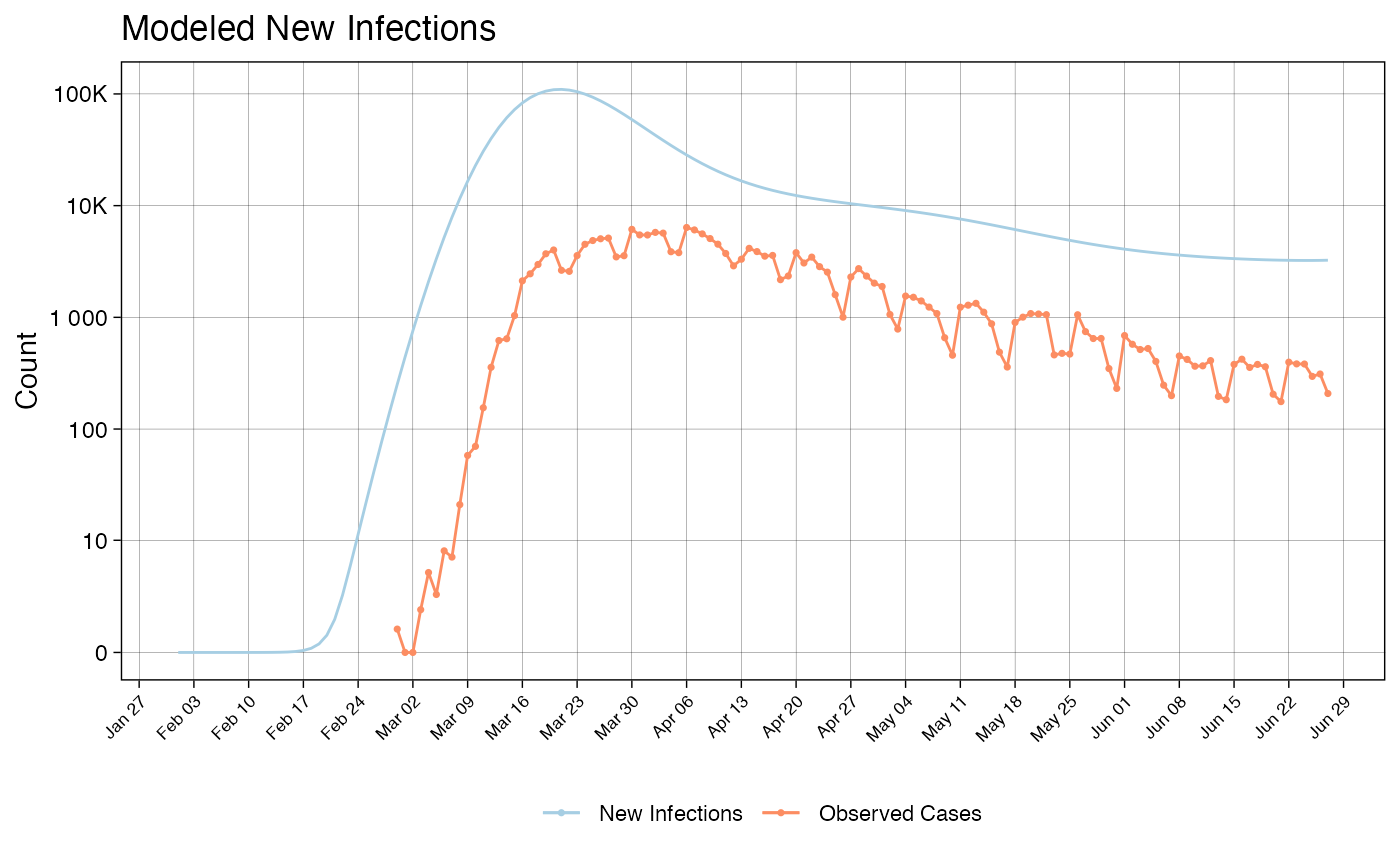
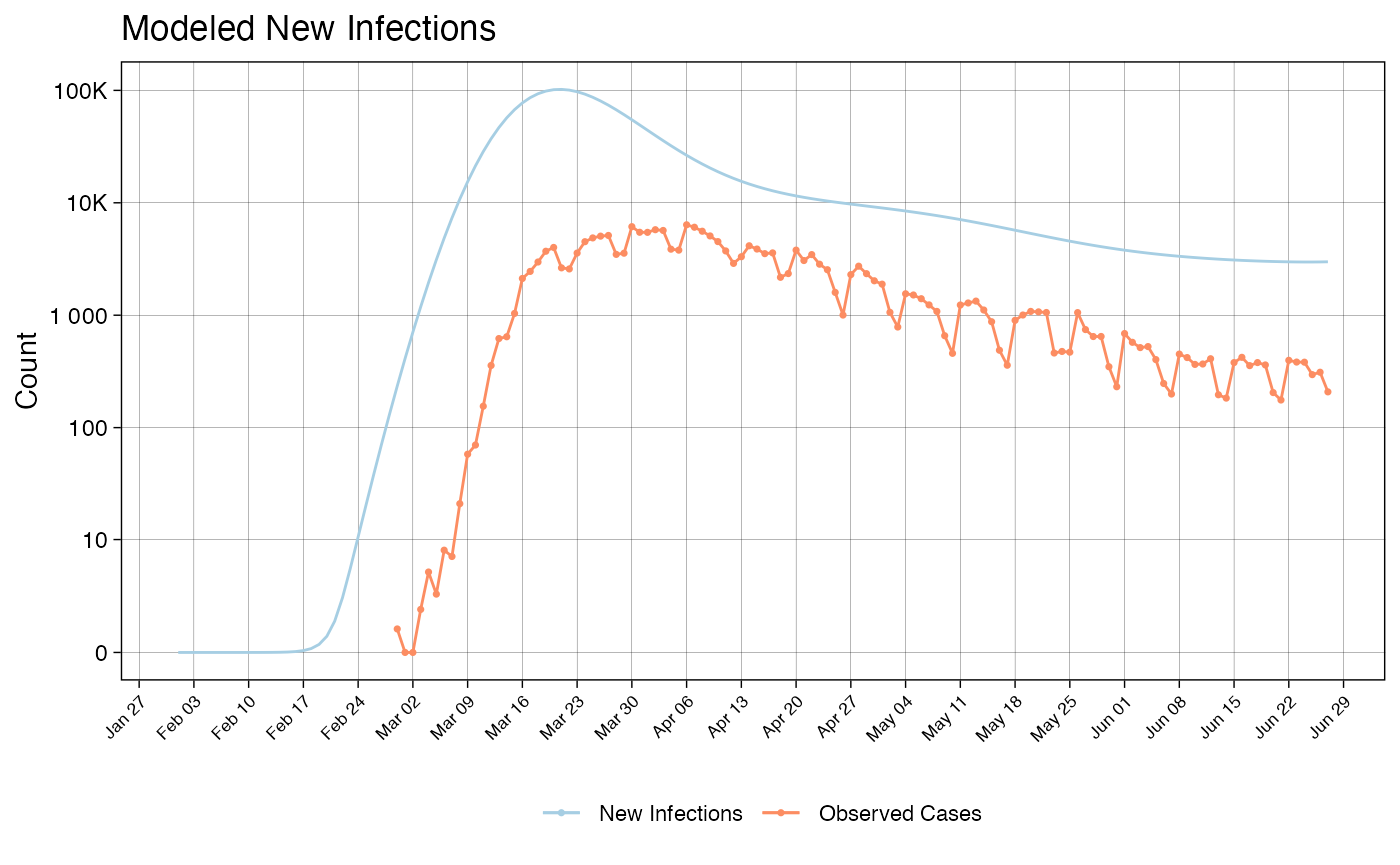
Built site for covidestim: 0.1.1.0000@163560c

diff --git a/articles/covidestim_vignette.html b/articles/covidestim_vignette.html
@@ -113,7 +113,7 @@
 <p>Users can use case and/or death data with the model. Each data type should be entered as its own dataframe with two columns: <code>date</code> and <code>observation</code>.</p>
 <div class="sourceCode" id="cb2"><pre class="downlit sourceCode r">
 <code class="sourceCode R"><span class="fu"><a href="https://rdrr.io/r/utils/head.html">head</a></span><span class="op">(</span><span class="fu"><a href="../reference/example_nyc_data.html">example_nyc_data</a></span><span class="op">(</span><span class="st">'cases'</span><span class="op">)</span><span class="op">)</span>
-<span class="co">#&gt; # A tibble: 6 x 2</span>
+<span class="co">#&gt; # A tibble: 6 × 2</span>
 <span class="co">#&gt;   date       observation</span>
 <span class="co">#&gt;   &lt;date&gt;           &lt;dbl&gt;</span>
 <span class="co">#&gt; 1 2020-02-29           1</span>
@@ -123,7 +123,7 @@
 <span class="co">#&gt; 5 2020-03-04           5</span>
 <span class="co">#&gt; 6 2020-03-05           3</span>
 <span class="fu"><a href="https://rdrr.io/r/utils/head.html">head</a></span><span class="op">(</span><span class="fu"><a href="../reference/example_nyc_data.html">example_nyc_data</a></span><span class="op">(</span><span class="st">'deaths'</span><span class="op">)</span><span class="op">)</span>
-<span class="co">#&gt; # A tibble: 6 x 2</span>
+<span class="co">#&gt; # A tibble: 6 × 2</span>
 <span class="co">#&gt;   date       observation</span>
 <span class="co">#&gt;   &lt;date&gt;           &lt;dbl&gt;</span>
 <span class="co">#&gt; 1 2020-02-29           0</span>
@@ -151,8 +151,8 @@
 <span class="co">#&gt; </span>
 <span class="co">#&gt; Seed:    42</span>
 <span class="co">#&gt; Chains:  3</span>
-<span class="co">#&gt; Iterations:  1500</span>
-<span class="co">#&gt; Warmup runs: 1200</span>
+<span class="co">#&gt; Iterations:  3000</span>
+<span class="co">#&gt; Warmup runs: 2000</span>
 <span class="co">#&gt; Priors: Valid</span>
 <span class="co">#&gt; ndays:   120</span>
 <span class="co">#&gt; </span>
@@ -188,8 +188,8 @@
 <span class="co">#&gt;  rr_diag [alpha]sy_vs_sym    [beta]  18</span>
 <span class="co">#&gt;  rr_diag_sym_vs_sev  [alpha] 2</span>
 <span class="co">#&gt;  rr_diag_sym_vs_sev  [beta]  2</span>
-<span class="co">#&gt;  p_diag_if_sev   [alpha] 5</span>
-<span class="co">#&gt;  p_diag_if_sev   [beta]  2</span>
+<span class="co">#&gt;  p_diag_if_sev   [alpha] 20</span>
+<span class="co">#&gt;  p_diag_if_sev   [beta]  5</span>
 <span class="co">#&gt; </span>
 <span class="co">#&gt; Inputs:</span>
 <span class="co">#&gt; </span>
@@ -209,22 +209,21 @@
 <p>Finally, the model is run with the function <code><a href="../reference/run.covidestim.html">?run.covidestim</a></code>. Don’t forget to assign the a name to the output of the run - you could lose it!. Runtimes vary depending on the size and quality of the data, and may take over an hour. If you are running the model in an interactive environment like RStudio, periodic status updates will appear in the console. Here, we will use the BFGS algorithm to quickly produce a result, as NUTS, the method used by <code>run()</code>, takes longer.</p>
 <div class="sourceCode" id="cb4"><pre class="downlit sourceCode r">
 <code class="sourceCode R"><span class="va">result</span> <span class="op">&lt;-</span> <span class="fu">runOptimizer</span><span class="op">(</span><span class="va">cfg</span><span class="op">)</span>
-<span class="co">#&gt; Finished try #1 in 2.1s with exit code 0</span>
+<span class="co">#&gt; Finished try #1 in 3.1s with exit code 0</span>
 <span class="co">#&gt; Warning in .local(object, ...): non-zero return code in optimizing</span>
-<span class="co">#&gt; Finished try #2 in 3.3s with exit code 70</span>
+<span class="co">#&gt; Finished try #2 in 2.6s with exit code 70</span>
 <span class="co">#&gt; Warning in .local(object, ...): non-zero return code in optimizing</span>
-<span class="co">#&gt; Finished try #3 in 3s with exit code 70</span>
+<span class="co">#&gt; Finished try #3 in 2.2s with exit code 70</span>
 <span class="co">#&gt; Warning in .local(object, ...): non-zero return code in optimizing</span>
-<span class="co">#&gt; Finished try #4 in 4.9s with exit code 70</span>
-<span class="co">#&gt; Finished try #5 in 5.2s with exit code 0</span>
+<span class="co">#&gt; Finished try #4 in 3.5s with exit code 70</span>
 <span class="co">#&gt; Warning in .local(object, ...): non-zero return code in optimizing</span>
-<span class="co">#&gt; Finished try #6 in 5.6s with exit code 70</span>
+<span class="co">#&gt; Finished try #5 in 4.8s with exit code 70</span>
 <span class="co">#&gt; Warning in .local(object, ...): non-zero return code in optimizing</span>
-<span class="co">#&gt; Finished try #7 in 5.5s with exit code 70</span>
-<span class="co">#&gt; Finished try #8 in 6s with exit code 0</span>
-<span class="co">#&gt; Finished try #9 in 6.5s with exit code 0</span>
-<span class="co">#&gt; Warning in .local(object, ...): non-zero return code in optimizing</span>
-<span class="co">#&gt; Finished try #10 in 5.9s with exit code 70</span></code></pre></div>
+<span class="co">#&gt; Finished try #6 in 4s with exit code 70</span>
+<span class="co">#&gt; Finished try #7 in 1.9s with exit code 0</span>
+<span class="co">#&gt; Finished try #8 in 2.5s with exit code 0</span>
+<span class="co">#&gt; Finished try #9 in 2.8s with exit code 0</span>
+<span class="co">#&gt; Finished try #10 in 3.1s with exit code 0</span></code></pre></div>
 <p>Typically, BFGS will occasionally fail to converge. This is what causes the non-zero return codes. <code><a href="../reference/runOptimizer.covidestim.html">runOptimizer.covidestim()</a></code> will automatically exclude these, and select the BFGS run that maximizes the posterior.</p>
 </div>
 </div>
@@ -239,15 +238,15 @@
 <div class="sourceCode" id="cb5"><pre class="downlit sourceCode r">
 <code class="sourceCode R"><span class="va">result.summary</span> <span class="op">&lt;-</span> <span class="fu"><a href="https://rdrr.io/r/base/summary.html">summary</a></span><span class="op">(</span><span class="va">result</span><span class="op">)</span>
 <span class="fu"><a href="https://rdrr.io/r/base/print.html">print</a></span><span class="op">(</span><span class="va">result.summary</span><span class="op">[</span><span class="fl">40</span><span class="op">:</span><span class="fl">45</span>, <span class="fl">1</span><span class="op">:</span><span class="fl">5</span><span class="op">]</span><span class="op">)</span>
-<span class="co">#&gt; # A tibble: 6 x 5</span>
+<span class="co">#&gt; # A tibble: 6 × 5</span>
 <span class="co">#&gt;   date       cases.fitted cases.fitted.hi cases.fitted.lo cum.incidence</span>
 <span class="co">#&gt;   &lt;date&gt;            &lt;dbl&gt; &lt;lgl&gt;           &lt;lgl&gt;                   &lt;dbl&gt;</span>
-<span class="co">#&gt; 1 2020-03-11         188. NA              NA                    103145.</span>
-<span class="co">#&gt; 2 2020-03-12         281. NA              NA                    143009.</span>
-<span class="co">#&gt; 3 2020-03-13         410. NA              NA                    193204.</span>
-<span class="co">#&gt; 4 2020-03-14         581. NA              NA                    254446.</span>
-<span class="co">#&gt; 5 2020-03-15         802. NA              NA                    326885.</span>
-<span class="co">#&gt; 6 2020-03-16        1079. NA              NA                    410016.</span></code></pre></div>
+<span class="co">#&gt; 1 2020-03-11         188. NA              NA                     96092.</span>
+<span class="co">#&gt; 2 2020-03-12         281. NA              NA                    133206.</span>
+<span class="co">#&gt; 3 2020-03-13         410. NA              NA                    179927.</span>
+<span class="co">#&gt; 4 2020-03-14         581. NA              NA                    236918.</span>
+<span class="co">#&gt; 5 2020-03-15         802. NA              NA                    304312.</span>
+<span class="co">#&gt; 6 2020-03-16        1079. NA              NA                    381634.</span></code></pre></div>
 </div>
 </div>
 <div id="visualizing-model-output" class="section level2">
@@ -259,17 +258,17 @@
 <p>The figure ‘observedVsFitted’ plots the observed cases and deaths (the input data) against the modeled values for reported cases and deaths. Because <code>runOptimzier.covidestim_result()</code> does not have CI’s, there will be a warning relating to the <code>NA</code>-valued CI columns that are present in the output.</p>
 <div class="sourceCode" id="cb7"><pre class="downlit sourceCode r">
 <code class="sourceCode R"><span class="va">plots</span><span class="op">$</span><span class="va">observedVsFitted</span>
-<span class="co">#&gt; Warning in max(ids, na.rm = TRUE): no non-missing arguments to max; returning -</span>
-<span class="co">#&gt; Inf</span>
+<span class="co">#&gt; Warning in max(ids, na.rm = TRUE): no non-missing arguments to max; returning</span>
+<span class="co">#&gt; -Inf</span>
 
-<span class="co">#&gt; Warning in max(ids, na.rm = TRUE): no non-missing arguments to max; returning -</span>
-<span class="co">#&gt; Inf</span></code></pre></div>
+<span class="co">#&gt; Warning in max(ids, na.rm = TRUE): no non-missing arguments to max; returning</span>
+<span class="co">#&gt; -Inf</span></code></pre></div>
 <p><img src="covidestim_vignette_files/figure-html/unnamed-chunk-7-1.png" width="700"></p>
 <p>The figure ‘infectionsAndCases’ plots modeled reported cases against modeled ‘true’ new infections. The latter is what we estimate to be the complete, un-lagged time series of incident infections that would give rise to the trends we observe in the case and death data.</p>
 <div class="sourceCode" id="cb8"><pre class="downlit sourceCode r">
 <code class="sourceCode R"><span class="va">plots</span><span class="op">$</span><span class="va">infectionsAndCases</span>
-<span class="co">#&gt; Warning in max(ids, na.rm = TRUE): no non-missing arguments to max; returning -</span>
-<span class="co">#&gt; Inf</span></code></pre></div>
+<span class="co">#&gt; Warning in max(ids, na.rm = TRUE): no non-missing arguments to max; returning</span>
+<span class="co">#&gt; -Inf</span></code></pre></div>
 <p><img src="covidestim_vignette_files/figure-html/unnamed-chunk-8-1.png" width="700"></p>
 </div>
   </div>

diff --git a/reference/priors_transitions.html b/reference/priors_transitions.html
@@ -194,7 +194,7 @@ symptomatic. "Severe" disease is defined as disease that would likely
 require hospitalization.</p>
 <p>Sources for default value:</p>
 <ul>
-<li><p>CDC COVID-19 Response Team, Bialek S, Boundy E, Bowen V, Chow N, Cohn A, Dowling N, Ellington S, Gierke R, Hall A, MacNeil J, Patel P, Peacock G, Pilishvili T, Razzaghi H, Reed N, Ritchey M, Sauber-Schatz E (2020).
+<li><p>CDC COVID-19 Response Team, CDC COVID-19 Response Team, Bialek S, Boundy E, Bowen V, Chow N, Cohn A, Dowling N, Ellington S, Gierke R, Hall A, MacNeil J, Patel P, Peacock G, Pilishvili T, Razzaghi H, Reed N, Ritchey M, Sauber-Schatz E (2020).
 &#8220;Severe Outcomes Among Patients with Coronavirus Disease 2019 (COVID-19) — United States, February 12–March 16, 2020.&#8221;
 <em>MMWR. Morbidity and Mortality Weekly Report</em>, <b>69</b>(12), 343--346.
 ISSN 0149-2195, 1545-861X, doi: <a href='https://doi.org/10.15585/mmwr.mm6912e2'>10.15585/mmwr.mm6912e2</a>
@@ -211,7 +211,7 @@ ISSN 14733099, doi: <a href='https://doi.org/10.1016/S1473-3099(20)30243-7'>10.1
       <td><p>A two-element numeric vector containing <code><a href='https://rdrr.io/r/base/c.html'>c(alpha,
   beta)</a></code> parameters/hyperpriors of a Beta distribution modeling the
 probability of dying if in the "severe" health state.</p>
-<p>Source for default value: CDC COVID-19 Response Team, Bialek S, Boundy E, Bowen V, Chow N, Cohn A, Dowling N, Ellington S, Gierke R, Hall A, MacNeil J, Patel P, Peacock G, Pilishvili T, Razzaghi H, Reed N, Ritchey M, Sauber-Schatz E (2020).
+<p>Source for default value: CDC COVID-19 Response Team, CDC COVID-19 Response Team, Bialek S, Boundy E, Bowen V, Chow N, Cohn A, Dowling N, Ellington S, Gierke R, Hall A, MacNeil J, Patel P, Peacock G, Pilishvili T, Razzaghi H, Reed N, Ritchey M, Sauber-Schatz E (2020).
 &#8220;Severe Outcomes Among Patients with Coronavirus Disease 2019 (COVID-19) — United States, February 12–March 16, 2020.&#8221;
 <em>MMWR. Morbidity and Mortality Weekly Report</em>, <b>69</b>(12), 343--346.
 ISSN 0149-2195, 1545-861X, doi: <a href='https://doi.org/10.15585/mmwr.mm6912e2'>10.15585/mmwr.mm6912e2</a>

diff --git a/reference/covidestim.html b/reference/covidestim.html
@@ -241,8 +241,8 @@ data.</p>
 #&gt; 
 #&gt; Seed:	42
 #&gt; Chains:	3
-#&gt; Iterations:	1500
-#&gt; Warmup runs:	1200
+#&gt; Iterations:	3000
+#&gt; Warmup runs:	2000
 #&gt; Priors: Valid
 #&gt; ndays:	120
 #&gt; 
@@ -278,8 +278,8 @@ data.</p>
 #&gt; 	rr_diag	[alpha]sy_vs_sym	[beta]	18
 #&gt; 	rr_diag_sym_vs_sev	[alpha]	2
 #&gt; 	rr_diag_sym_vs_sev	[beta]	2
-#&gt; 	p_diag_if_sev	[alpha]	5
-#&gt; 	p_diag_if_sev	[beta]	2
+#&gt; 	p_diag_if_sev	[alpha]	20
+#&gt; 	p_diag_if_sev	[beta]	5
 #&gt; 
 #&gt; Inputs:
 #&gt; 
